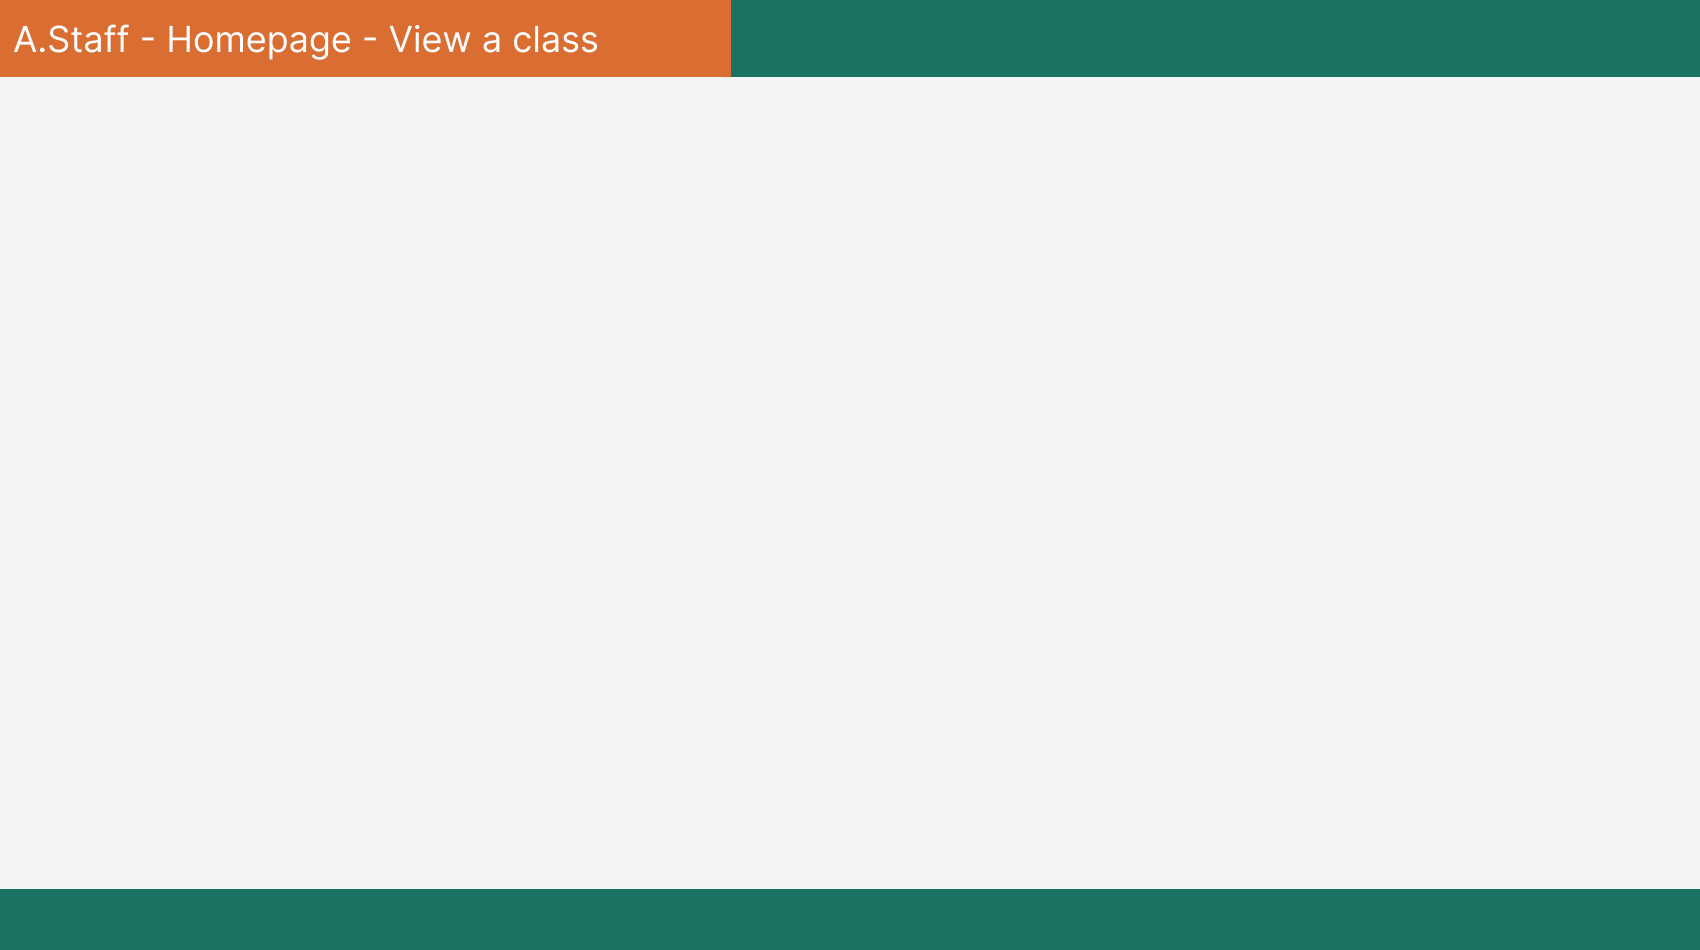
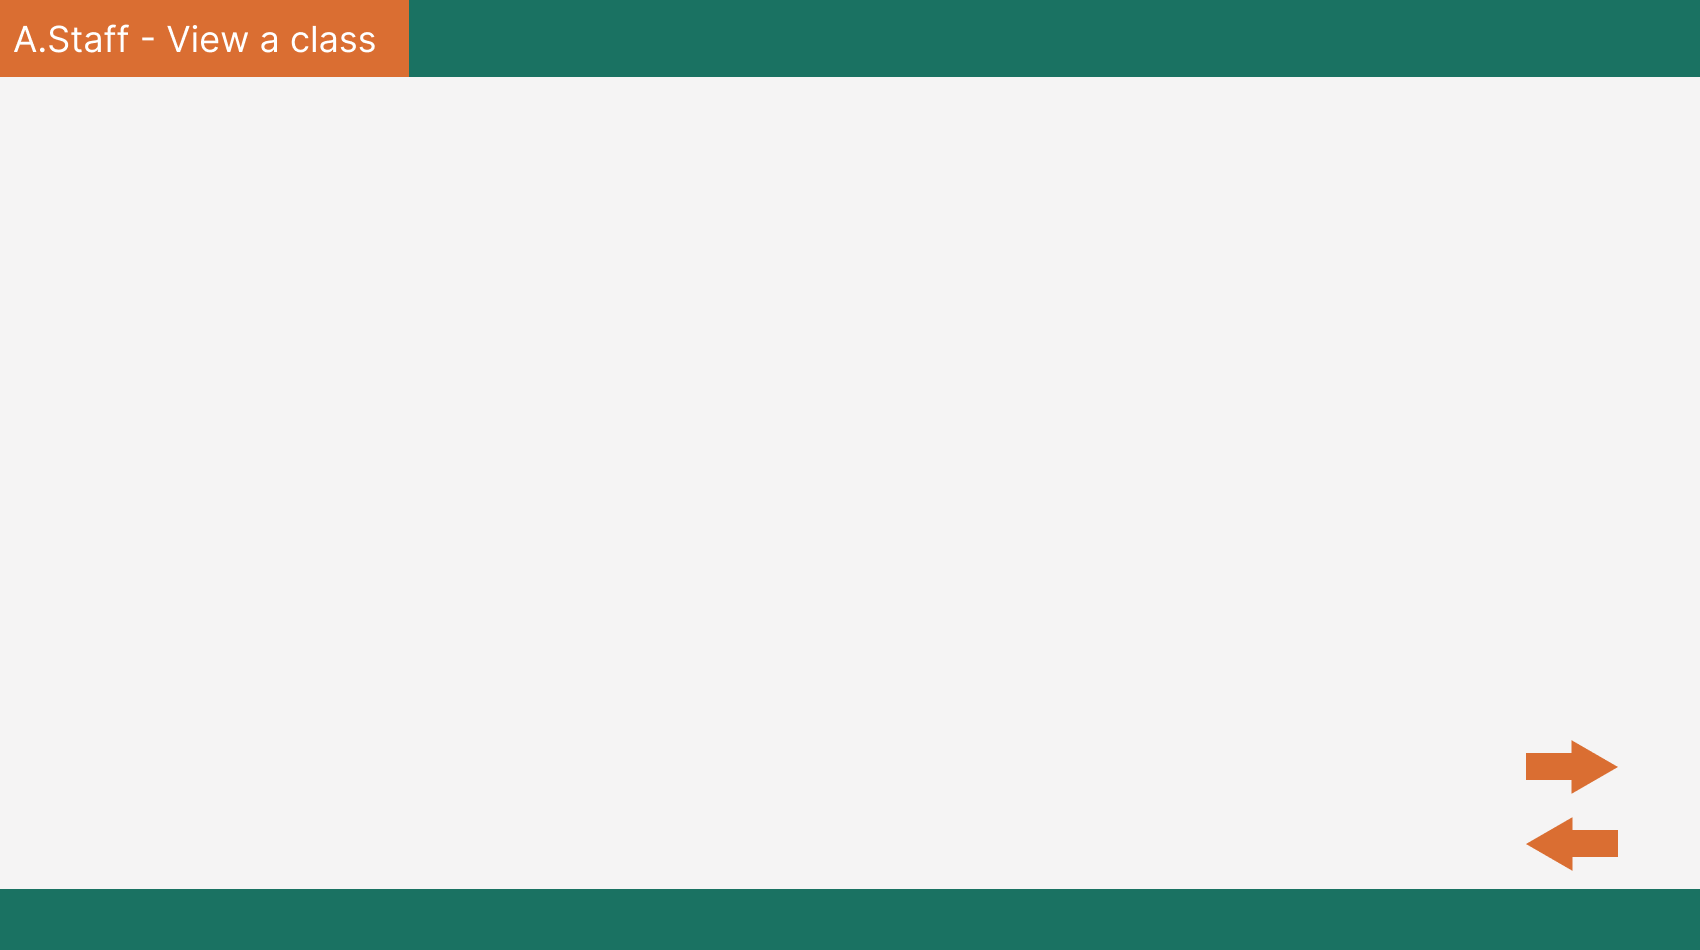
perf: Improve the UI in view student of a class

Changed region(s): [[0.0935, 0.0, 0.4365, 0.0916], [0.9041, 0.8547, 0.9665, 0.9158], [0.8729, 0.7632, 0.9665, 0.8242]]

diff --git a/SFML/Activity2.cpp b/SFML/Activity2.cpp
@@ -1224,12 +1224,15 @@ void Activity2::viewOneClass(Class& oneclass)
 
 
     Button goBackBtn(686, 766, 245, 66, "Go back", fontNext, ORANGE);
+    Button nextPageBtn(1187.f, 732.f, 92.f, 62.f, "Next", fontNext, sf::Color(218, 110, 50));
+    Button prevPageBtn(1187.f, 809.f, 92.f, 62.f, "Prev", fontNext, sf::Color(218, 110, 50));
     vector<Text> allOfStudents;
-
+    int displayFrom = 0;
 
 
     while (windowNext.isOpen()) {
         sf::Event event;
+        long long displayLimit = (displayFrom + 10) > listOfStudent.size() ? listOfStudent.size() : (displayFrom + 10);
         while (windowNext.pollEvent(event)) {
             if (event.type == sf::Event::Closed)
                 windowNext.close();  // Close 
@@ -1298,6 +1301,15 @@ void Activity2::viewOneClass(Class& oneclass)
                 /*if (scoreBoardBtn.isClicked(mousePos)) {
                     scoreBoardOfClassStaff(oneclass);
                 }*/
+                if (nextPageBtn.isClicked(mousePos)) {
+                    if (displayFrom + 10 <= listOfStudent.size())
+                        displayFrom += 10;
+                }
+
+                if (prevPageBtn.isClicked(mousePos)) {
+                    if (displayFrom - 10 >= 0)
+                        displayFrom -= 10;
+                }
             }
 
         }
@@ -1319,7 +1331,7 @@ void Activity2::viewOneClass(Class& oneclass)
         //exportListBtn.draw(windowNext);
         //scoreBoardBtn.draw(windowNext);
 
-        for (int i = 0; i < listOfStudent.size(); i++)
+        for (int i = displayFrom; i < displayLimit; i++)
             listOfStudent[i].draw(windowNext);
 
         goBackBtn.draw(windowNext);

diff --git a/SFML/Activity.cpp b/SFML/Activity.cpp
@@ -201,8 +201,8 @@ void Activity::initInformationStudentWindow(sf::RenderWindow& window)
 
     Text  fullName(672, 163, "Full name: " + user.fullname, font, sf::Color::Black, 36);
     Text  id(672, 213, "Id: " + user.id, font, sf::Color::Black, 36);
-    Text  course(672, 258, "Course: " + user.courseName, font, sf::Color::Black, 36);
-    Text  classes(672, 300, "Class: " + user.courseName, font, sf::Color::Black, 36);
+    Text  course(672, 258, "Date of Birth: " + user.dayOfBirth, font, sf::Color::Black, 36);
+    Text  classes(672, 300, "Class: " + user.className, font, sf::Color::Black, 36);
 
 
     if (!texture.loadFromFile("Assets/InformationStudent.png"))

diff --git a/SFML/ExtraFunction.cpp b/SFML/ExtraFunction.cpp
@@ -62,10 +62,11 @@ int checkLoginType(User& user) // return 0 if wrong acc/pass, return 1 if studen
 
 			fin.open("data/student" / cla / userInformationUrl);
 
-			getline(fin, user.id);
 			getline(fin, user.className);
+			getline(fin, user.id);
 			getline(fin, user.fullname);
 			getline(fin, user.gender);
+			getline(fin, user.dayOfBirth);
 			getline(fin, user.socialId);
 			std::cout << user.id << '\n' << user.fullname << '\n' << user.className << '\n';
 

diff --git a/SFML/Activity2.h b/SFML/Activity2.h
@@ -54,5 +54,7 @@ public:
 	static void scoreBoardOfClassStaff(Class& oneclass);
 
 	static void importScoreCourseStaff(Semester& semester, Course& course);
+
+	
 };
 
